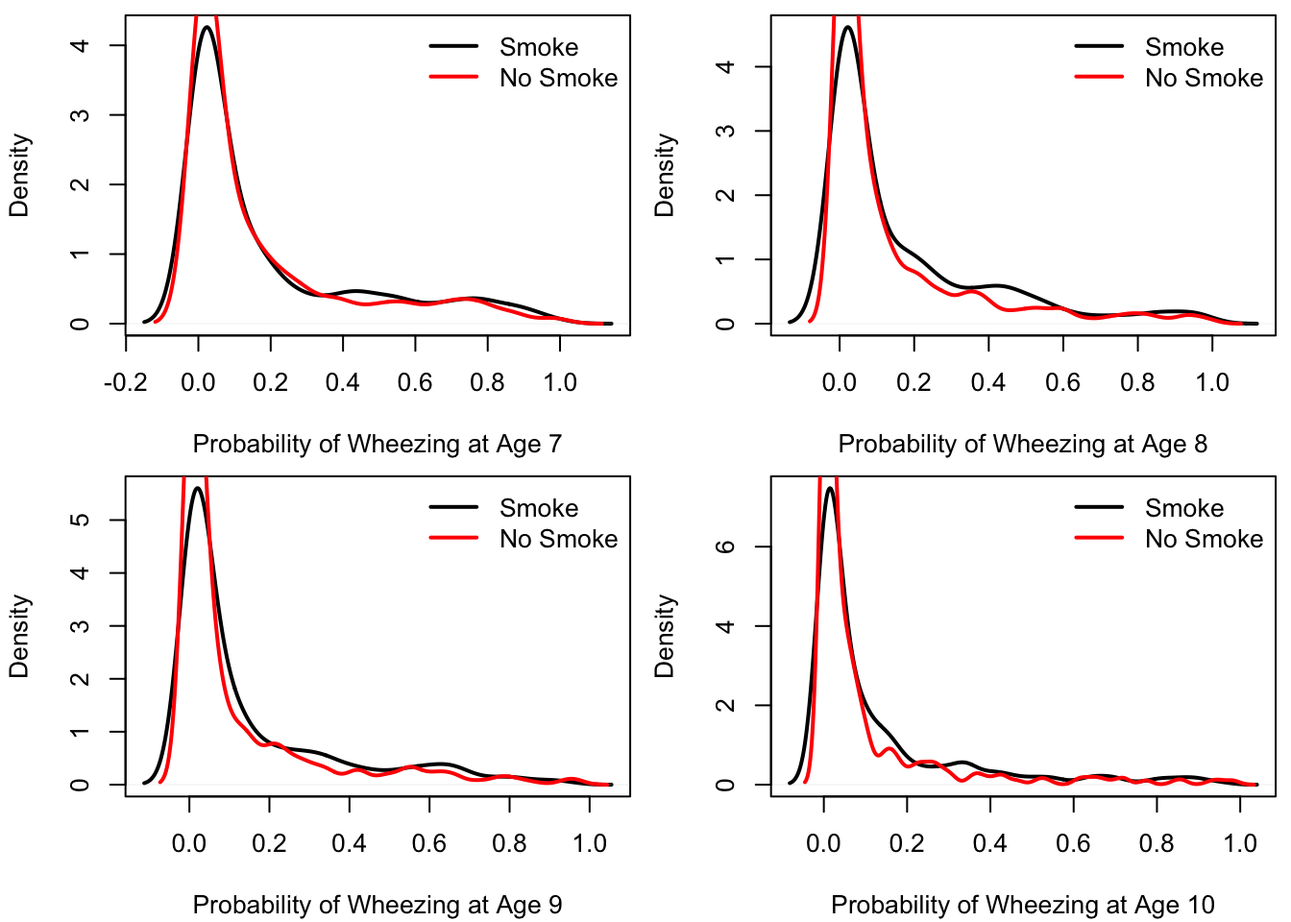
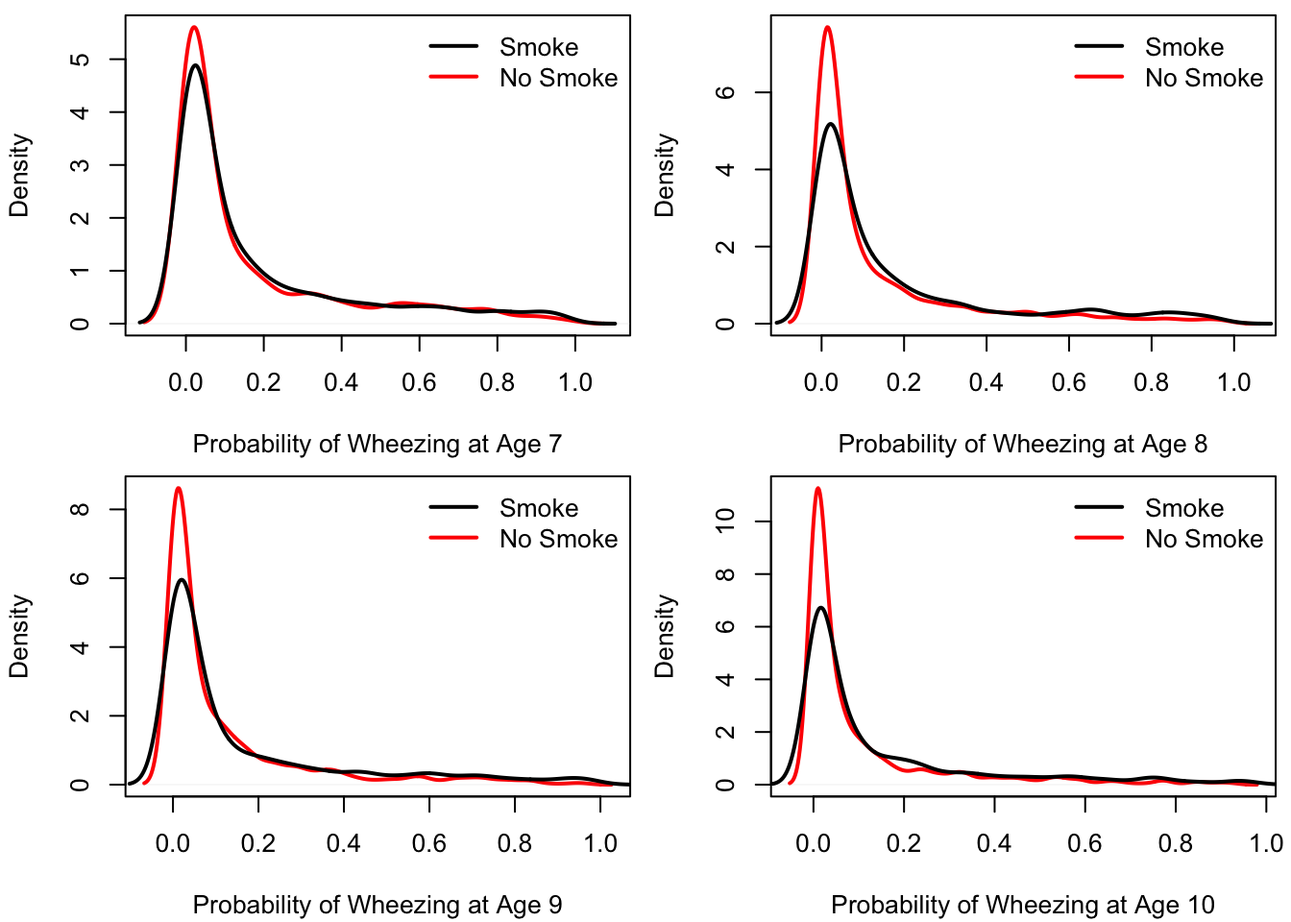
fixed a few typos and finalized data analysis of ohio

diff --git a/docs/mixed-models.html b/docs/mixed-models.html
@@ -24,7 +24,7 @@
 <meta name="author" content="Nicholas Henderson" />
 
 
-<meta name="date" content="2021-01-27" />
+<meta name="date" content="2021-01-28" />
 
   <meta name="viewport" content="width=device-width, initial-scale=1" />
   <meta name="apple-mobile-web-app-capable" content="yes" />
@@ -247,8 +247,9 @@ or transformations of these time points.</li>
 <hr />
 <ul>
 <li><p>The regression model <a href="mixed-models.html#eq:fixed-reg-model">(1.1)</a> assumes the same
-mean function <span class="math inline">\(\beta_{0} + \mathbf{x}_{ij}^{T}\boldsymbol{\beta}\)</span> holds for all individuals in the study.</p></li>
-<li>It is often reasonable to assume that the regression coefficients across vary across individuals.
+mean function <span class="math inline">\(\beta_{0} + \mathbf{x}_{ij}^{T}\boldsymbol{\beta}\)</span> holds for all individuals that
+have the same value of <span class="math inline">\(\mathbf{x}_{ij}\)</span>.</p></li>
+<li>It is often reasonable to assume that the regression coefficients vary across individuals.
 <ul>
 <li>This can often better account for heterogeneity across individuals.</li>
 </ul></li>
@@ -292,7 +293,7 @@ Y_{ij} = \beta_{0} + \beta_{1} t_{j} + u_{i0} + u_{i1}t_{j} + e_{ij}
 \tag{1.2}
 \end{equation}\]</span></p></li>
 <li><span class="math inline">\(\beta_{0} + u_{i0}\)</span> - intercept for individual <span class="math inline">\(i\)</span>.</li>
-<li><p><span class="math inline">\(\beta_{1} + u_{i1}\)</span> - intercept for individual <span class="math inline">\(i\)</span>.</p></li>
+<li><p><span class="math inline">\(\beta_{1} + u_{i1}\)</span> - slope for individual <span class="math inline">\(i\)</span>.</p></li>
 </ul>
 <hr />
 <ul>
@@ -325,11 +326,12 @@ Y_{ij} = \beta_{0} + \mathbf{x}_{ij}^{T}\boldsymbol{\beta} + \mathbf{z}_{ij}^{T}
 </ul></li>
 <li>Then, we can write the general form <a href="mixed-models.html#eq:lmm-generalform">(1.3)</a> of the LMM as
 <span class="math display">\[\begin{equation}
-\mathbf{Y} = \mathbf{X}\boldsymbol{\beta} + \mathbf{Z}\mathbf{u} + \mathbf{e}
+\mathbf{Y} = \mathbf{X}\tilde{\boldsymbol{\beta}} + \mathbf{Z}\mathbf{u} + \mathbf{e}
 \end{equation}\]</span>
 <ul>
 <li><span class="math inline">\(i^{th}\)</span> row of <span class="math inline">\(\mathbf{X}\)</span> is <span class="math inline">\((1, \mathbf{x}_{ij}^{T})\)</span>.</li>
 <li><span class="math inline">\(i^{th}\)</span> row of <span class="math inline">\(\mathbf{Z}\)</span> is <span class="math inline">\(\mathbf{z}_{ij}^{T}\)</span>.</li>
+<li><span class="math inline">\(\tilde{\boldsymbol{\beta}} = (1, \boldsymbol{\beta})\)</span>.</li>
 </ul></li>
 <li>Constructing an LMM can be thought of as choosing the desired “<span class="math inline">\(\mathbf{X}\)</span>” and “<span class="math inline">\(\mathbf{Z}\)</span>” matrices.</li>
 </ul>
@@ -372,7 +374,7 @@ and some of the covariates across individuals.</p></li>
 <li><p>Looking at the <strong>estimates of the variance</strong> of the random effects
 is one way of addressing this goal.</p></li>
 <li><p>An estimate of <span class="math inline">\(\textrm{Var}( u_{ih} )\)</span> “substantially greater than zero”
-is an indication that there is variability in the covariate corresponding to <span class="math inline">\(u_{ih}\)</span>
+is an indication that there is variability in the regression coefficient corresponding to <span class="math inline">\(u_{ih}\)</span>
 across individuals.</p></li>
 </ul>
 <hr />
@@ -411,7 +413,7 @@ of a given individual.</p></li>
 <li><p>The observed longitudinal outcomes from individual <span class="math inline">\(i\)</span> are a “noisy estimate” of that individual’s true trajectory.</p></li>
 <li>The BLUPs are more stable <strong>“shrinkage” estimates</strong> of the trajectory of individual <span class="math inline">\(i\)</span>.
 <ul>
-<li>These are called shrinkage estimates because <span class="math inline">\(\textrm{BLUP}_{ij}\)</span> often shrinks the estimate from data only from individual <span class="math inline">\(i\)</span> towards the “overall” estimate <span class="math inline">\(\mathbf{x}_{ij}^{T}\boldsymbol{\beta}\)</span>.</li>
+<li>These are called shrinkage estimates because often shrinks the estimate that would be obtained using only data from individual <span class="math inline">\(i\)</span> towards the “overall” estimate <span class="math inline">\(\mathbf{x}_{ij}^{T}\boldsymbol{\beta}\)</span>.</li>
 </ul></li>
 </ul>
 <hr />
@@ -504,16 +506,16 @@ is a linear combination of the covariates and the random effects vector <span cl
 <div id="glmms-with-count-outcomes" class="section level3">
 <h3><span class="header-section-number">1.4.2</span> GLMMs with Count Outcomes</h3>
 <ul>
-<li><p>For <strong>count</strong> outcomes, responses are typically assumed to follow a <strong>Poisson</strong> distribution and sometimes a <strong>negative binomial</strong> distribution - conditional on the values of the random effects model.</p></li>
+<li><p>For <strong>count</strong> outcomes, responses are typically assumed to follow a <strong>Poisson</strong> distribution and sometimes a <strong>negative binomial</strong> distribution - conditional on the values of the random effects.</p></li>
 <li><p>For the Poisson model, we assume <span class="math inline">\(Y_{ij}|\mathbf{u}_{i} \sim \textrm{Poisson}\{ \mu_{ij}( \mathbf{u}_{i} ) \}\)</span>,
 <span class="math display">\[\begin{equation}
 E(Y_{ij}| \mathbf{u}_{i}) = \mu_{ij}(\mathbf{u}_{i})  \qquad 
 \textrm{Var}( Y_{ij}| \mathbf{u}_{i} ) = \mu_{ij}(\mathbf{u}_{i})
 \end{equation}\]</span></p></li>
-<li>One common problem with the Poisson distribution is <strong>overdispersion</strong>.
+<li>One common problem with the Poisson distribution is <strong>overdispersion</strong> (i.e., variance is greater than the mean).
 <ul>
 <li><p>The variance of the Poisson equals the mean.</p></li>
-<li><p>While the <strong>marginal</strong> variance will not equal the mean, requiring the
+<li><p>While the <strong>marginal</strong> variance will not equal the mean in a GLMM, requiring the
 conditional means and variances to be equal could lead to a poor fit.</p></li>
 </ul></li>
 <li>For the <strong>negative binomial</strong> model, we assume<br />
@@ -1009,34 +1011,39 @@ plotted the results in 8 densities in 4 panels.
 </ul></li>
 </ul>
 <div class="sourceCode" id="cb48"><pre class="sourceCode r"><code class="sourceCode r"><a class="sourceLine" id="cb48-1" data-line-number="1">beta.hat &lt;-<span class="st"> </span><span class="kw">coef</span>(<span class="kw">summary</span>(ohio.intercept))[,<span class="dv">1</span>]</a>
-<a class="sourceLine" id="cb48-2" data-line-number="2">n &lt;-<span class="st"> </span><span class="dv">500</span></a>
-<a class="sourceLine" id="cb48-3" data-line-number="3">pneg2.smoke &lt;-<span class="st"> </span><span class="kw">plogis</span>(<span class="kw">rnorm</span>(n, <span class="dt">sd=</span><span class="fl">2.34</span>) <span class="op">+</span><span class="st"> </span>beta.hat[<span class="dv">1</span>] <span class="op">-</span><span class="st"> </span><span class="dv">2</span><span class="op">*</span>beta.hat[<span class="dv">2</span>] <span class="op">+</span><span class="st"> </span>beta.hat[<span class="dv">3</span>]) <span class="co">#age -2 with smoke</span></a>
+<a class="sourceLine" id="cb48-2" data-line-number="2">n &lt;-<span class="st"> </span><span class="dv">1000</span></a>
+<a class="sourceLine" id="cb48-3" data-line-number="3">pneg2.smoke &lt;-<span class="st"> </span><span class="kw">plogis</span>(<span class="kw">rnorm</span>(n,<span class="dt">sd=</span><span class="fl">2.34</span>) <span class="op">+</span><span class="st"> </span>beta.hat[<span class="dv">1</span>] <span class="op">-</span><span class="st"> </span><span class="dv">2</span><span class="op">*</span>beta.hat[<span class="dv">2</span>] <span class="op">+</span><span class="st"> </span>beta.hat[<span class="dv">3</span>]) <span class="co">#age -2 with smoke</span></a>
 <a class="sourceLine" id="cb48-4" data-line-number="4">pneg2 &lt;-<span class="st"> </span><span class="kw">plogis</span>(<span class="kw">rnorm</span>(n, <span class="dt">sd=</span><span class="fl">2.34</span>) <span class="op">+</span><span class="st"> </span>beta.hat[<span class="dv">1</span>] <span class="op">-</span><span class="st"> </span><span class="dv">2</span><span class="op">*</span>beta.hat[<span class="dv">2</span>]) <span class="co">#age -2 w/o smoke</span></a>
-<a class="sourceLine" id="cb48-5" data-line-number="5">pneg1.smoke &lt;-<span class="st"> </span><span class="kw">plogis</span>(<span class="kw">rnorm</span>(n, <span class="dt">sd=</span><span class="fl">2.34</span>) <span class="op">+</span><span class="st"> </span>beta.hat[<span class="dv">1</span>] <span class="op">-</span><span class="st"> </span><span class="dv">1</span><span class="op">*</span>beta.hat[<span class="dv">2</span>] <span class="op">+</span><span class="st"> </span>beta.hat[<span class="dv">3</span>]) <span class="co"># age -1 with smoke</span></a>
+<a class="sourceLine" id="cb48-5" data-line-number="5">pneg1.smoke &lt;-<span class="st"> </span><span class="kw">plogis</span>(<span class="kw">rnorm</span>(n,<span class="dt">sd=</span><span class="fl">2.34</span>) <span class="op">+</span><span class="st"> </span>beta.hat[<span class="dv">1</span>] <span class="op">-</span><span class="st"> </span><span class="dv">1</span><span class="op">*</span>beta.hat[<span class="dv">2</span>] <span class="op">+</span><span class="st"> </span>beta.hat[<span class="dv">3</span>]) <span class="co">#age -1 with smoke</span></a>
 <a class="sourceLine" id="cb48-6" data-line-number="6">pneg1 &lt;-<span class="st"> </span><span class="kw">plogis</span>(<span class="kw">rnorm</span>(n, <span class="dt">sd=</span><span class="fl">2.34</span>) <span class="op">+</span><span class="st"> </span>beta.hat[<span class="dv">1</span>] <span class="op">-</span><span class="st"> </span><span class="dv">1</span><span class="op">*</span>beta.hat[<span class="dv">2</span>]) <span class="co"># age -1 w/o smoke</span></a>
 <a class="sourceLine" id="cb48-7" data-line-number="7">p0.smoke &lt;-<span class="st"> </span><span class="kw">plogis</span>(<span class="kw">rnorm</span>(n, <span class="dt">sd=</span><span class="fl">2.34</span>) <span class="op">+</span><span class="st"> </span>beta.hat[<span class="dv">1</span>] <span class="op">+</span><span class="st"> </span>beta.hat[<span class="dv">3</span>]) <span class="co"># age 0 with smoke</span></a>
 <a class="sourceLine" id="cb48-8" data-line-number="8">p0 &lt;-<span class="st"> </span><span class="kw">plogis</span>(<span class="kw">rnorm</span>(n, <span class="dt">sd=</span><span class="fl">2.34</span>) <span class="op">+</span><span class="st"> </span>beta.hat[<span class="dv">1</span>]) <span class="co"># age 0 w/o smoke</span></a>
-<a class="sourceLine" id="cb48-9" data-line-number="9">p1.smoke &lt;-<span class="st"> </span><span class="kw">plogis</span>(<span class="kw">rnorm</span>(n, <span class="dt">sd=</span><span class="fl">2.34</span>) <span class="op">+</span><span class="st"> </span>beta.hat[<span class="dv">1</span>] <span class="op">+</span><span class="st"> </span>beta.hat[<span class="dv">2</span>] <span class="op">+</span><span class="st"> </span>beta.hat[<span class="dv">3</span>]) <span class="co"># age 1 with smoke</span></a>
+<a class="sourceLine" id="cb48-9" data-line-number="9">p1.smoke &lt;-<span class="st"> </span><span class="kw">plogis</span>(<span class="kw">rnorm</span>(n,<span class="dt">sd=</span><span class="fl">2.34</span>) <span class="op">+</span><span class="st"> </span>beta.hat[<span class="dv">1</span>] <span class="op">+</span><span class="st"> </span>beta.hat[<span class="dv">2</span>] <span class="op">+</span><span class="st"> </span>beta.hat[<span class="dv">3</span>]) <span class="co"># age 1 with smoke</span></a>
 <a class="sourceLine" id="cb48-10" data-line-number="10">p1 &lt;-<span class="st"> </span><span class="kw">plogis</span>(<span class="kw">rnorm</span>(n, <span class="dt">sd=</span><span class="fl">2.34</span>) <span class="op">+</span><span class="st"> </span>beta.hat[<span class="dv">1</span>] <span class="op">+</span><span class="st"> </span>beta.hat[<span class="dv">2</span>]) <span class="co"># age 1 w/o smoke</span></a>
 <a class="sourceLine" id="cb48-11" data-line-number="11"></a>
 <a class="sourceLine" id="cb48-12" data-line-number="12"><span class="kw">par</span>(<span class="dt">mfrow=</span><span class="kw">c</span>(<span class="dv">2</span>,<span class="dv">2</span>), <span class="dt">mar=</span><span class="kw">c</span>(<span class="fl">4.1</span>, <span class="fl">4.1</span>, <span class="fl">.5</span>, <span class="fl">.5</span>))</a>
-<a class="sourceLine" id="cb48-13" data-line-number="13"><span class="kw">plot</span>(<span class="kw">density</span>(pneg2.smoke), <span class="dt">lwd=</span><span class="dv">2</span>, <span class="dt">xlab =</span> <span class="st">&quot;Probability of Wheezing at Age 7&quot;</span>, <span class="dt">main=</span><span class="st">&quot;&quot;</span>)</a>
-<a class="sourceLine" id="cb48-14" data-line-number="14">d &lt;-<span class="st"> </span><span class="kw">density</span>(pneg2)</a>
-<a class="sourceLine" id="cb48-15" data-line-number="15"><span class="kw">lines</span>(d<span class="op">$</span>x, d<span class="op">$</span>y, <span class="dt">col=</span><span class="st">&quot;red&quot;</span>, <span class="dt">lwd=</span><span class="dv">2</span>)</a>
+<a class="sourceLine" id="cb48-13" data-line-number="13"><span class="kw">plot</span>(<span class="kw">density</span>(pneg2), <span class="dt">lwd=</span><span class="dv">2</span>, <span class="dt">xlab =</span> <span class="st">&quot;Probability of Wheezing at Age 7&quot;</span>, <span class="dt">main=</span><span class="st">&quot;&quot;</span>, <span class="dt">col=</span><span class="st">&quot;red&quot;</span>)</a>
+<a class="sourceLine" id="cb48-14" data-line-number="14">d &lt;-<span class="st"> </span><span class="kw">density</span>(pneg2.smoke)</a>
+<a class="sourceLine" id="cb48-15" data-line-number="15"><span class="kw">lines</span>(d<span class="op">$</span>x, d<span class="op">$</span>y, <span class="dt">lwd=</span><span class="dv">2</span>)</a>
 <a class="sourceLine" id="cb48-16" data-line-number="16"><span class="kw">legend</span>(<span class="st">&quot;topright&quot;</span>, <span class="dt">legend =</span> <span class="kw">c</span>(<span class="st">&quot;Smoke&quot;</span>, <span class="st">&quot;No Smoke&quot;</span>), <span class="dt">col=</span><span class="kw">c</span>(<span class="st">&quot;black&quot;</span>, <span class="st">&quot;red&quot;</span>), <span class="dt">bty=</span><span class="st">&#39;n&#39;</span>, <span class="dt">lwd=</span><span class="dv">2</span>)</a>
-<a class="sourceLine" id="cb48-17" data-line-number="17"><span class="kw">plot</span>(<span class="kw">density</span>(pneg1.smoke), <span class="dt">lwd=</span><span class="dv">2</span>, <span class="dt">xlab =</span> <span class="st">&quot;Probability of Wheezing at Age 8&quot;</span>, <span class="dt">main=</span><span class="st">&quot;&quot;</span>)</a>
-<a class="sourceLine" id="cb48-18" data-line-number="18">d &lt;-<span class="st"> </span><span class="kw">density</span>(pneg1)</a>
-<a class="sourceLine" id="cb48-19" data-line-number="19"><span class="kw">lines</span>(d<span class="op">$</span>x, d<span class="op">$</span>y, <span class="dt">col=</span><span class="st">&quot;red&quot;</span>, <span class="dt">lwd=</span><span class="dv">2</span>)</a>
+<a class="sourceLine" id="cb48-17" data-line-number="17"><span class="kw">plot</span>(<span class="kw">density</span>(pneg1), <span class="dt">lwd=</span><span class="dv">2</span>, <span class="dt">xlab =</span> <span class="st">&quot;Probability of Wheezing at Age 8&quot;</span>, <span class="dt">main=</span><span class="st">&quot;&quot;</span>, <span class="dt">col=</span><span class="st">&quot;red&quot;</span>)</a>
+<a class="sourceLine" id="cb48-18" data-line-number="18">d &lt;-<span class="st"> </span><span class="kw">density</span>(pneg1.smoke)</a>
+<a class="sourceLine" id="cb48-19" data-line-number="19"><span class="kw">lines</span>(d<span class="op">$</span>x, d<span class="op">$</span>y, <span class="dt">lwd=</span><span class="dv">2</span>)</a>
 <a class="sourceLine" id="cb48-20" data-line-number="20"><span class="kw">legend</span>(<span class="st">&quot;topright&quot;</span>, <span class="dt">legend =</span> <span class="kw">c</span>(<span class="st">&quot;Smoke&quot;</span>, <span class="st">&quot;No Smoke&quot;</span>), <span class="dt">col=</span><span class="kw">c</span>(<span class="st">&quot;black&quot;</span>, <span class="st">&quot;red&quot;</span>), <span class="dt">bty=</span><span class="st">&#39;n&#39;</span>, <span class="dt">lwd=</span><span class="dv">2</span>)</a>
-<a class="sourceLine" id="cb48-21" data-line-number="21"><span class="kw">plot</span>(<span class="kw">density</span>(p0.smoke), <span class="dt">lwd=</span><span class="dv">2</span>, <span class="dt">xlab =</span> <span class="st">&quot;Probability of Wheezing at Age 9&quot;</span>, <span class="dt">main=</span><span class="st">&quot;&quot;</span>)</a>
-<a class="sourceLine" id="cb48-22" data-line-number="22">d &lt;-<span class="st"> </span><span class="kw">density</span>(p0)</a>
-<a class="sourceLine" id="cb48-23" data-line-number="23"><span class="kw">lines</span>(d<span class="op">$</span>x, d<span class="op">$</span>y, <span class="dt">col=</span><span class="st">&quot;red&quot;</span>, <span class="dt">lwd=</span><span class="dv">2</span>)</a>
+<a class="sourceLine" id="cb48-21" data-line-number="21"><span class="kw">plot</span>(<span class="kw">density</span>(p0), <span class="dt">lwd=</span><span class="dv">2</span>, <span class="dt">xlab =</span> <span class="st">&quot;Probability of Wheezing at Age 9&quot;</span>, <span class="dt">main=</span><span class="st">&quot;&quot;</span>, <span class="dt">col=</span><span class="st">&quot;red&quot;</span>)</a>
+<a class="sourceLine" id="cb48-22" data-line-number="22">d &lt;-<span class="st"> </span><span class="kw">density</span>(p0.smoke)</a>
+<a class="sourceLine" id="cb48-23" data-line-number="23"><span class="kw">lines</span>(d<span class="op">$</span>x, d<span class="op">$</span>y, <span class="dt">lwd=</span><span class="dv">2</span>)</a>
 <a class="sourceLine" id="cb48-24" data-line-number="24"><span class="kw">legend</span>(<span class="st">&quot;topright&quot;</span>, <span class="dt">legend =</span> <span class="kw">c</span>(<span class="st">&quot;Smoke&quot;</span>, <span class="st">&quot;No Smoke&quot;</span>), <span class="dt">col=</span><span class="kw">c</span>(<span class="st">&quot;black&quot;</span>, <span class="st">&quot;red&quot;</span>), <span class="dt">bty=</span><span class="st">&#39;n&#39;</span>, <span class="dt">lwd=</span><span class="dv">2</span>)</a>
-<a class="sourceLine" id="cb48-25" data-line-number="25"><span class="kw">plot</span>(<span class="kw">density</span>(p1.smoke), <span class="dt">lwd=</span><span class="dv">2</span>, <span class="dt">xlab =</span> <span class="st">&quot;Probability of Wheezing at Age 10&quot;</span>, <span class="dt">main=</span><span class="st">&quot;&quot;</span>)</a>
-<a class="sourceLine" id="cb48-26" data-line-number="26">d &lt;-<span class="st"> </span><span class="kw">density</span>(p1)</a>
-<a class="sourceLine" id="cb48-27" data-line-number="27"><span class="kw">lines</span>(d<span class="op">$</span>x, d<span class="op">$</span>y, <span class="dt">col=</span><span class="st">&quot;red&quot;</span>, <span class="dt">lwd=</span><span class="dv">2</span>)</a>
+<a class="sourceLine" id="cb48-25" data-line-number="25"><span class="kw">plot</span>(<span class="kw">density</span>(p1), <span class="dt">lwd=</span><span class="dv">2</span>, <span class="dt">xlab =</span> <span class="st">&quot;Probability of Wheezing at Age 10&quot;</span>, <span class="dt">main=</span><span class="st">&quot;&quot;</span>, <span class="dt">col=</span><span class="st">&quot;red&quot;</span>)</a>
+<a class="sourceLine" id="cb48-26" data-line-number="26">d &lt;-<span class="st"> </span><span class="kw">density</span>(p1.smoke)</a>
+<a class="sourceLine" id="cb48-27" data-line-number="27"><span class="kw">lines</span>(d<span class="op">$</span>x, d<span class="op">$</span>y, <span class="dt">lwd=</span><span class="dv">2</span>)</a>
 <a class="sourceLine" id="cb48-28" data-line-number="28"><span class="kw">legend</span>(<span class="st">&quot;topright&quot;</span>, <span class="dt">legend =</span> <span class="kw">c</span>(<span class="st">&quot;Smoke&quot;</span>, <span class="st">&quot;No Smoke&quot;</span>), <span class="dt">col=</span><span class="kw">c</span>(<span class="st">&quot;black&quot;</span>, <span class="st">&quot;red&quot;</span>), <span class="dt">bty=</span><span class="st">&#39;n&#39;</span>, <span class="dt">lwd=</span><span class="dv">2</span>)</a></code></pre></div>
-<p><img src="01-MixedModels_files/figure-html/unnamed-chunk-28-1.png" width="672" /></p>
+<div class="figure"><span id="fig:unnamed-chunk-28"></span>
+<img src="01-MixedModels_files/figure-html/unnamed-chunk-28-1.png" alt="Distribution of Wheezing probability across individuals for different values of age and smoking status" width="672" />
+<p class="caption">
+Figure 1.2: Distribution of Wheezing probability across individuals for different values of age and smoking status
+</p>
+</div>
 <hr />
 
 <div id="refs" class="references">

diff --git a/docs/index.html b/docs/index.html
@@ -24,7 +24,7 @@
 <meta name="author" content="Nicholas Henderson" />
 
 
-<meta name="date" content="2021-01-27" />
+<meta name="date" content="2021-01-28" />
 
   <meta name="viewport" content="width=device-width, initial-scale=1" />
   <meta name="apple-mobile-web-app-capable" content="yes" />
@@ -172,7 +172,7 @@ code span.wa { color: #60a0b0; font-weight: bold; font-style: italic; } /* Warni
 <div id="header">
 <h1 class="title">Notes for Case Studies in Health Big Data</h1>
 <p class="author"><em>Nicholas Henderson</em></p>
-<p class="date"><em>2021-01-27</em></p>
+<p class="date"><em>2021-01-28</em></p>
 </div>
 <div id="preface" class="section level1 unnumbered">
 <h1>Preface</h1>

diff --git a/docs/01-MixedModels.md b/docs/01-MixedModels.md
@@ -78,9 +78,10 @@ or transformations of these time points.
 ---
 
 * The regression model \@ref(eq:fixed-reg-model) assumes the same
-mean function $\beta_{0} + \mathbf{x}_{ij}^{T}\boldsymbol{\beta}$ holds for all individuals in the study.
+mean function $\beta_{0} + \mathbf{x}_{ij}^{T}\boldsymbol{\beta}$ holds for all individuals that
+have the same value of $\mathbf{x}_{ij}$.
 
-* It is often reasonable to assume that the regression coefficients across vary across individuals. 
+* It is often reasonable to assume that the regression coefficients vary across individuals. 
     + This can often better account for heterogeneity across individuals.
 
 * The figure below shows 3 different regression lines from the **sleepstudy** data.
@@ -122,7 +123,7 @@ Y_{ij} = \beta_{0} + \beta_{1} t_{j} + u_{i0} + u_{i1}t_{j} + e_{ij}
 \end{equation}
 
 * $\beta_{0} + u_{i0}$ - intercept for individual $i$.
-* $\beta_{1} + u_{i1}$ - intercept for individual $i$.
+* $\beta_{1} + u_{i1}$ - slope for individual $i$.
 
 ---
 
@@ -155,10 +156,11 @@ Y_{ij} = \beta_{0} + \mathbf{x}_{ij}^{T}\boldsymbol{\beta} + \mathbf{z}_{ij}^{T}
 
 * Then, we can write the general form \@ref(eq:lmm-generalform) of the LMM as
 \begin{equation}
-\mathbf{Y} = \mathbf{X}\boldsymbol{\beta} + \mathbf{Z}\mathbf{u} + \mathbf{e}
+\mathbf{Y} = \mathbf{X}\tilde{\boldsymbol{\beta}} + \mathbf{Z}\mathbf{u} + \mathbf{e}
 \end{equation}
     + $i^{th}$ row of $\mathbf{X}$ is $(1, \mathbf{x}_{ij}^{T})$.
     + $i^{th}$ row of $\mathbf{Z}$ is $\mathbf{z}_{ij}^{T}$.
+    + $\tilde{\boldsymbol{\beta}} = (1, \boldsymbol{\beta})$.
 
 * Constructing an LMM can be thought of as choosing the desired "$\mathbf{X}$" and "$\mathbf{Z}$" matrices.
 
@@ -199,7 +201,7 @@ and some of the covariates across individuals.
 is one way of addressing this goal. 
 
 * An estimate of $\textrm{Var}( u_{ih} )$ "substantially greater than zero" 
-is an indication that there is variability in the covariate corresponding to $u_{ih}$
+is an indication that there is variability in the regression coefficient corresponding to $u_{ih}$
 across individuals.
 
 ---
@@ -242,7 +244,7 @@ of a given individual.
 * The observed longitudinal outcomes from individual $i$ are a "noisy estimate" of that individual's true trajectory.
 
 * The BLUPs are more stable **"shrinkage" estimates** of the trajectory of individual $i$.
-     + These are called shrinkage estimates because $\textrm{BLUP}_{ij}$ often shrinks the estimate from data only from individual $i$ towards the "overall" estimate $\mathbf{x}_{ij}^{T}\boldsymbol{\beta}$.
+     + These are called shrinkage estimates because often shrinks the estimate that would be obtained using only data from individual $i$ towards the "overall" estimate $\mathbf{x}_{ij}^{T}\boldsymbol{\beta}$.
 
 ---
 
@@ -335,7 +337,7 @@ is a linear combination of the covariates and the random effects vector $\mathbf
     
 ### GLMMs with Count Outcomes
 
-* For **count** outcomes, responses are typically assumed to follow a **Poisson** distribution and sometimes a **negative binomial** distribution - conditional on the values of the random effects model.
+* For **count** outcomes, responses are typically assumed to follow a **Poisson** distribution and sometimes a **negative binomial** distribution - conditional on the values of the random effects.
 
 * For the Poisson model, we assume $Y_{ij}|\mathbf{u}_{i} \sim \textrm{Poisson}\{ \mu_{ij}( \mathbf{u}_{i} ) \}$,
 \begin{equation}
@@ -343,10 +345,10 @@ E(Y_{ij}| \mathbf{u}_{i}) = \mu_{ij}(\mathbf{u}_{i})  \qquad
 \textrm{Var}( Y_{ij}| \mathbf{u}_{i} ) = \mu_{ij}(\mathbf{u}_{i})
 \end{equation}
 
-* One common problem with the Poisson distribution is **overdispersion**. 
+* One common problem with the Poisson distribution is **overdispersion** (i.e., variance is greater than the mean). 
     + The variance of the Poisson equals the mean.
     
-    + While the **marginal** variance will not equal the mean, requiring the
+    + While the **marginal** variance will not equal the mean in a GLMM, requiring the
     conditional means and variances to be equal could lead to a poor fit.
     
 * For the **negative binomial** model, we assume     
@@ -966,36 +968,39 @@ plotted the results in 8 densities in 4 panels.
 
 ```r
 beta.hat <- coef(summary(ohio.intercept))[,1]
-n <- 500
-pneg2.smoke <- plogis(rnorm(n, sd=2.34) + beta.hat[1] - 2*beta.hat[2] + beta.hat[3]) #age -2 with smoke
+n <- 1000
+pneg2.smoke <- plogis(rnorm(n,sd=2.34) + beta.hat[1] - 2*beta.hat[2] + beta.hat[3]) #age -2 with smoke
 pneg2 <- plogis(rnorm(n, sd=2.34) + beta.hat[1] - 2*beta.hat[2]) #age -2 w/o smoke
-pneg1.smoke <- plogis(rnorm(n, sd=2.34) + beta.hat[1] - 1*beta.hat[2] + beta.hat[3]) # age -1 with smoke
+pneg1.smoke <- plogis(rnorm(n,sd=2.34) + beta.hat[1] - 1*beta.hat[2] + beta.hat[3]) #age -1 with smoke
 pneg1 <- plogis(rnorm(n, sd=2.34) + beta.hat[1] - 1*beta.hat[2]) # age -1 w/o smoke
 p0.smoke <- plogis(rnorm(n, sd=2.34) + beta.hat[1] + beta.hat[3]) # age 0 with smoke
 p0 <- plogis(rnorm(n, sd=2.34) + beta.hat[1]) # age 0 w/o smoke
-p1.smoke <- plogis(rnorm(n, sd=2.34) + beta.hat[1] + beta.hat[2] + beta.hat[3]) # age 1 with smoke
+p1.smoke <- plogis(rnorm(n,sd=2.34) + beta.hat[1] + beta.hat[2] + beta.hat[3]) # age 1 with smoke
 p1 <- plogis(rnorm(n, sd=2.34) + beta.hat[1] + beta.hat[2]) # age 1 w/o smoke
 
 par(mfrow=c(2,2), mar=c(4.1, 4.1, .5, .5))
-plot(density(pneg2.smoke), lwd=2, xlab = "Probability of Wheezing at Age 7", main="")
-d <- density(pneg2)
-lines(d$x, d$y, col="red", lwd=2)
+plot(density(pneg2), lwd=2, xlab = "Probability of Wheezing at Age 7", main="", col="red")
+d <- density(pneg2.smoke)
+lines(d$x, d$y, lwd=2)
 legend("topright", legend = c("Smoke", "No Smoke"), col=c("black", "red"), bty='n', lwd=2)
-plot(density(pneg1.smoke), lwd=2, xlab = "Probability of Wheezing at Age 8", main="")
-d <- density(pneg1)
-lines(d$x, d$y, col="red", lwd=2)
+plot(density(pneg1), lwd=2, xlab = "Probability of Wheezing at Age 8", main="", col="red")
+d <- density(pneg1.smoke)
+lines(d$x, d$y, lwd=2)
 legend("topright", legend = c("Smoke", "No Smoke"), col=c("black", "red"), bty='n', lwd=2)
-plot(density(p0.smoke), lwd=2, xlab = "Probability of Wheezing at Age 9", main="")
-d <- density(p0)
-lines(d$x, d$y, col="red", lwd=2)
+plot(density(p0), lwd=2, xlab = "Probability of Wheezing at Age 9", main="", col="red")
+d <- density(p0.smoke)
+lines(d$x, d$y, lwd=2)
 legend("topright", legend = c("Smoke", "No Smoke"), col=c("black", "red"), bty='n', lwd=2)
-plot(density(p1.smoke), lwd=2, xlab = "Probability of Wheezing at Age 10", main="")
-d <- density(p1)
-lines(d$x, d$y, col="red", lwd=2)
+plot(density(p1), lwd=2, xlab = "Probability of Wheezing at Age 10", main="", col="red")
+d <- density(p1.smoke)
+lines(d$x, d$y, lwd=2)
 legend("topright", legend = c("Smoke", "No Smoke"), col=c("black", "red"), bty='n', lwd=2)
 ```
 
-<img src="01-MixedModels_files/figure-html/unnamed-chunk-28-1.png" width="672" />
+<div class="figure">
+<img src="01-MixedModels_files/figure-html/unnamed-chunk-28-1.png" alt="Distribution of Wheezing probability across individuals for different values of age and smoking status" width="672" />
+<p class="caption">(\#fig:unnamed-chunk-28)Distribution of Wheezing probability across individuals for different values of age and smoking status</p>
+</div>
 
 
 ---

diff --git a/docs/index.md b/docs/index.md
@@ -1,7 +1,7 @@
 --- 
 title: "Notes for Case Studies in Health Big Data"
 author: "Nicholas Henderson"
-date: "2021-01-27"
+date: "2021-01-28"
 site: bookdown::bookdown_site
 documentclass: book
 bibliography: ["book.bib"]
